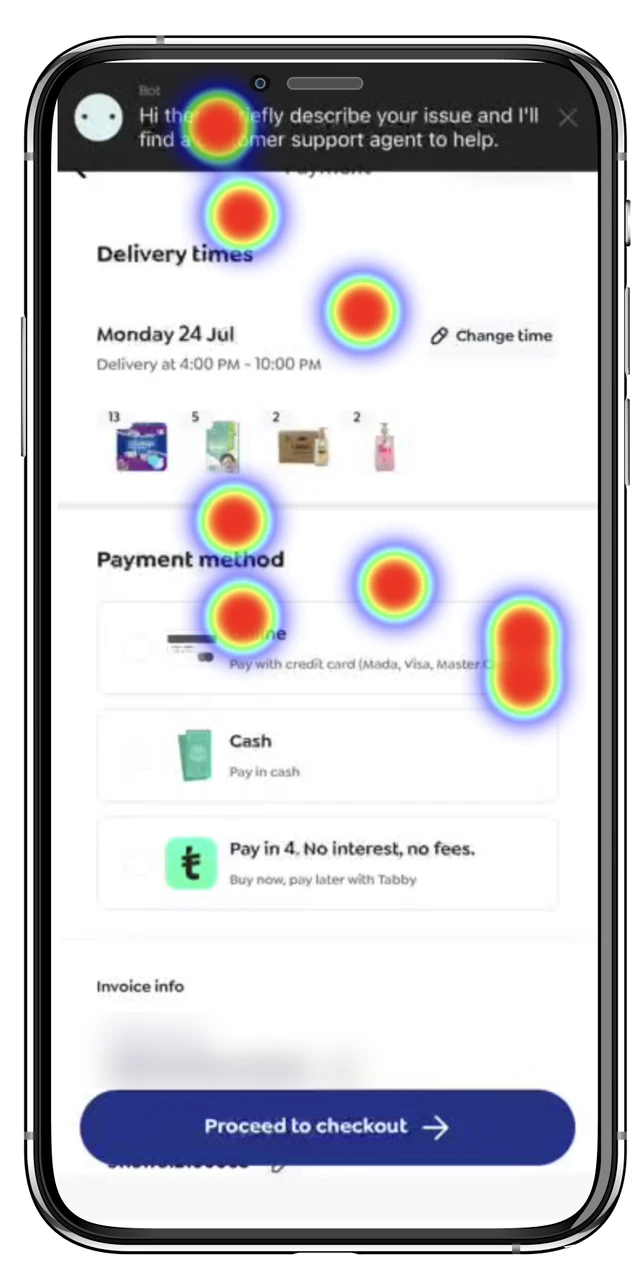
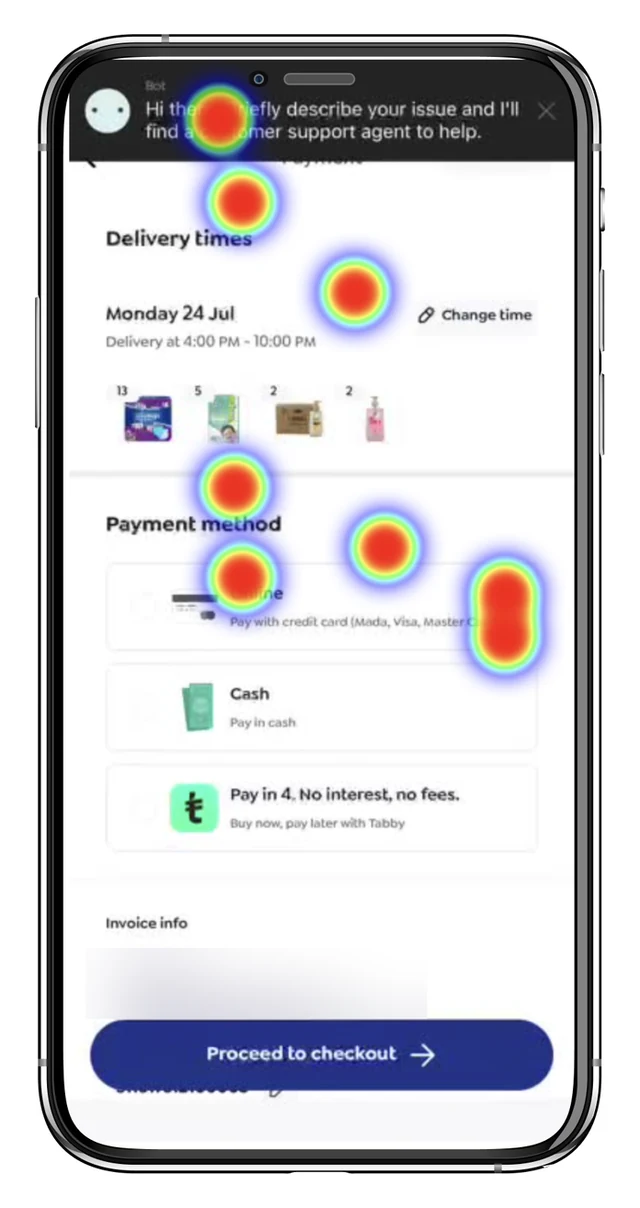
Usability report fixes: hero, spacing, lead-ins, gallery, outcome
- Hero heatmap strip re-cropped without the cut colour legend, with the
  caption "Click heatmaps of the registration screens."
- The four key numbers sit 48px from the text around them (new optional
  tight flag on blocks) and get a caption; the results block takes an
  optional caption.
- Findings and recommendations use short bold lead-ins (text paragraphs
  can now be { lead, text }; new --font-weight-strong token).
- Gallery phones re-cropped to the same size, so all four line up.
- Outcome reworded; Tools now Amplitude, Smartlook, Figma.

diff --git a/src/data/projects.js b/src/data/projects.js
@@ -12,12 +12,13 @@
 //   prototypeUrl  link to the prototype (optional; no link is shown without it)
 //   linkLabel     text for that link (optional; defaults to "View the prototype")
 //   blocks        the story, in order. Each block has a "type":
-//     text       { heading, paragraphs: [] }
+//     text       { heading, paragraphs: [] } (a paragraph can be { lead, text })
 //     image      { src, alt, caption, shape: 'phone' for a single phone screen (optional) }
 //     twoImages  { images: [{ src, alt, caption }, { src, alt, caption }] }
 //     quote      { text, source }
-//     results    { items: [{ value, label }] } (two to four items)
+//     results    { items: [{ value, label }], caption } (two to four items)
 //     gallery    { shape: 'landscape' or 'phone', images: [{ src, alt, caption }] }
+//   Any block can add tight: true to sit closer to the block above it.
 //
 // Images go in src/assets/projects/<slug>/. Import them at the top of this file
 // and use the import as src. An empty src shows an "Image placeholder" box.
@@ -377,11 +378,12 @@ export const projects = [
       type: 'Work project',
       role: 'Product designer at Sary',
       year: '2023',
-      tools: ['Amplitude', 'Figma'],
+      tools: ['Amplitude', 'Smartlook', 'Figma'],
     },
     heroImage: {
       src: uprHeatmapOnboarding,
-      alt: 'Eight Sary onboarding and registration screens with click heatmaps, from the welcome screen to the profile, with a legend from more clicks to fewer clicks.',
+      alt: 'Eight Sary onboarding and registration screens with click heatmaps, from the welcome screen to the profile.',
+      caption: 'Click heatmaps of the registration screens.',
     },
     // Temporary link; see content-import/usability-performance-report/gaps.md.
     prototypeUrl:
@@ -412,6 +414,8 @@ export const projects = [
       },
       {
         type: 'results',
+        tight: true,
+        caption: 'July to November, compared with March to May.',
         items: [
           { value: '26.8%', label: 'Onboarding confirmed, down from 45.4%' },
           { value: '32.0%', label: 'Completed orders, down from 54.5%' },
@@ -421,10 +425,21 @@ export const projects = [
       },
       {
         type: 'text',
+        tight: true,
         paragraphs: [
-          'In registration, people tried to scroll the onboarding screen, but it does not scroll, and they tapped its images as if they were buttons. The checkbox to accept the terms and privacy policy was hard to find and took several attempts. The bottom sheet for choosing how to verify a store had no back or close button, and a tap on "Need Help" got no response.',
-          'In checkout, some people tapped "Proceed to Payment", reached a seller verification screen, stayed a few seconds and left the app. Coupons caused friction too: wrong or expired codes, carts below the minimum value, and people not knowing coupons existed.',
-          'On the Discover tab, touches were mostly scrolling rather than taps, and the banners were not tailored to each business segment. The report also notes business changes in the same months, such as a removed seller and fewer coupon offers, that likely affected these numbers.',
+          {
+            lead: 'Registration.',
+            text: 'People tried to scroll the onboarding screen, but it does not scroll, and they tapped its images as if they were buttons. The checkbox to accept the terms and privacy policy was hard to find and took several attempts. The bottom sheet for choosing how to verify a store had no back or close button, and a tap on "Need Help" got no response.',
+          },
+          {
+            lead: 'Checkout.',
+            text: 'Some people tapped "Proceed to Payment", reached a seller verification screen, stayed a few seconds and left the app. Coupons caused friction too: wrong or expired codes, carts below the minimum value, and people not knowing coupons existed.',
+          },
+          {
+            lead: 'Discover tab.',
+            text: 'Touches were mostly scrolling rather than taps, and the banners were not tailored to each business segment.',
+          },
+          'The report also notes business changes in the same months, such as a removed seller and fewer coupon offers, that likely affected these numbers.',
         ],
       },
       {
@@ -457,17 +472,29 @@ export const projects = [
         type: 'text',
         heading: 'Recommendations',
         paragraphs: [
-          'Make the terms checkbox easier to see, through its placement, a larger size or a distinct color, and add a short hint that the onboarding screen has no more content below.',
-          'Suggest coupons smartly: offer alternatives for expired codes, suggest valid codes close to a mistyped one, and show how close the cart is to a coupon\'s minimum value. State coupon terms, like the minimum order, where coupons are given and used.',
-          'Consider showing seller verification later in checkout, closer to the end, when people are more invested in finishing the order.',
-          'Tailor banners and offers to each business segment, and add short in-app guides that explain how to use banner offers.',
+          {
+            lead: 'Registration.',
+            text: 'Make the terms checkbox easier to see, through its placement, a larger size or a distinct color, and add a short hint that the onboarding screen has no more content below.',
+          },
+          {
+            lead: 'Coupons.',
+            text: 'Make coupon suggestions smarter: offer alternatives for expired codes, suggest valid codes close to a mistyped one, and show how close the cart is to a coupon\'s minimum value. State coupon terms, like the minimum order, where coupons are given and used.',
+          },
+          {
+            lead: 'Seller verification.',
+            text: 'Consider showing seller verification later in checkout, closer to the end, when people are more invested in finishing the order.',
+          },
+          {
+            lead: 'Banners.',
+            text: 'Tailor banners and offers to each business segment, and add short in-app guides that explain how to use banner offers.',
+          },
         ],
       },
       {
         type: 'text',
         heading: 'The outcome',
         paragraphs: [
-          'I shared the report with the team in a meeting. I do not remember the details, and I do not know which recommendations were built. The report itself is the deliverable.',
+          'I presented the report to the team. I do not have a record of which recommendations were built, so I am not claiming results. The report itself is the deliverable.',
         ],
       },
     ],

diff --git a/src/components/blocks/blocks.css b/src/components/blocks/blocks.css
@@ -5,6 +5,11 @@
   gap: var(--space-3xl);
 }
 
+/* A block that belongs with the one above sits closer to it. */
+.case-blocks > .reveal--tight {
+  margin-top: calc(var(--space-xl) - var(--space-3xl));
+}
+
 /* Scroll reveal: a soft fade with a 12px upward move, played once. */
 .reveal {
   opacity: 0;
@@ -97,6 +102,10 @@
   margin-top: var(--space-md);
 }
 
+.block-text strong {
+  font-weight: var(--font-weight-strong);
+}
+
 /* 2. Image and 3. Two images */
 .block-wide-image,
 .block-two-images,
@@ -154,6 +163,19 @@
 }
 
 /* 5. Results: value above, label below, wrapping on narrow screens. */
+.block-results-wrap {
+  max-width: var(--measure-body);
+  margin: 0 auto;
+}
+
+.block-results-wrap figcaption {
+  margin-top: var(--space-md);
+  font-family: var(--font-sans);
+  font-size: var(--font-size-caption);
+  line-height: var(--line-height-body);
+  color: var(--color-text-muted);
+}
+
 .block-results {
   display: flex;
   flex-wrap: wrap;
@@ -207,6 +229,10 @@
 @media (min-width: 64rem) {
   .case-blocks {
     gap: var(--space-4xl);
+  }
+
+  .case-blocks > .reveal--tight {
+    margin-top: calc(var(--space-xl) - var(--space-4xl));
   }
 
   .block-gallery {

diff --git a/src/components/blocks/Reveal.jsx b/src/components/blocks/Reveal.jsx
@@ -2,7 +2,7 @@ import { useEffect, useRef, useState } from 'react'
 
 // Fades its content in with a small upward move, once, when it enters the
 // screen. With reduced motion, the content is simply shown.
-export default function Reveal({ children }) {
+export default function Reveal({ children, tight = false }) {
   const ref = useRef(null)
   const [visible, setVisible] = useState(false)
 
@@ -28,7 +28,10 @@ export default function Reveal({ children }) {
   }, [])
 
   return (
-    <div ref={ref} className={visible ? 'reveal is-visible' : 'reveal'}>
+    <div
+      ref={ref}
+      className={['reveal', visible && 'is-visible', tight && 'reveal--tight'].filter(Boolean).join(' ')}
+    >
       {children}
     </div>
   )

diff --git a/src/components/blocks/ResultsBlock.jsx b/src/components/blocks/ResultsBlock.jsx
@@ -1,12 +1,15 @@
-export default function ResultsBlock({ items = [] }) {
+export default function ResultsBlock({ items = [], caption }) {
   return (
-    <dl className="block-results">
-      {items.slice(0, 4).map((item, index) => (
-        <div key={index}>
-          <dt>{item.label}</dt>
-          <dd>{item.value}</dd>
-        </div>
-      ))}
-    </dl>
+    <figure className="block-results-wrap">
+      <dl className="block-results">
+        {items.slice(0, 4).map((item, index) => (
+          <div key={index}>
+            <dt>{item.label}</dt>
+            <dd>{item.value}</dd>
+          </div>
+        ))}
+      </dl>
+      {caption ? <figcaption>{caption}</figcaption> : null}
+    </figure>
   )
 }

diff --git a/src/components/blocks/BlockRenderer.jsx b/src/components/blocks/BlockRenderer.jsx
@@ -17,6 +17,7 @@ const components = {
 }
 
 // Shows each block with the component for its "type". Unknown types are skipped.
+// tight: true puts a block closer to the one above it, for content that belongs together.
 export default function BlockRenderer({ blocks = [] }) {
   return (
     <div className="case-blocks">
@@ -24,7 +25,7 @@ export default function BlockRenderer({ blocks = [] }) {
         const Component = components[block.type]
         if (!Component) return null
         return (
-          <Reveal key={index}>
+          <Reveal key={index} tight={block.tight}>
             <Component {...block} />
           </Reveal>
         )

diff --git a/src/components/blocks/TextBlock.jsx b/src/components/blocks/TextBlock.jsx
@@ -1,10 +1,17 @@
+// A paragraph is a string, or { lead, text } for a short bold lead-in.
 export default function TextBlock({ heading, paragraphs = [] }) {
   return (
     <section className="block-text">
       {heading ? <h2>{heading}</h2> : null}
-      {paragraphs.map((paragraph, index) => (
-        <p key={index}>{paragraph}</p>
-      ))}
+      {paragraphs.map((paragraph, index) =>
+        typeof paragraph === 'string' ? (
+          <p key={index}>{paragraph}</p>
+        ) : (
+          <p key={index}>
+            <strong>{paragraph.lead}</strong> {paragraph.text}
+          </p>
+        ),
+      )}
     </section>
   )
 }

diff --git a/src/styles/tokens.css b/src/styles/tokens.css
@@ -58,6 +58,8 @@
   --font-weight-heading: 600;
   /* Regular text weight. */
   --font-weight-body: 400;
+  /* Short bold lead-ins inside body text. */
+  --font-weight-strong: 600;
   /* Case-study text column, about 680px. */
   --measure-body: 42.5rem;
   /* Wider image column, about 1100px. */
